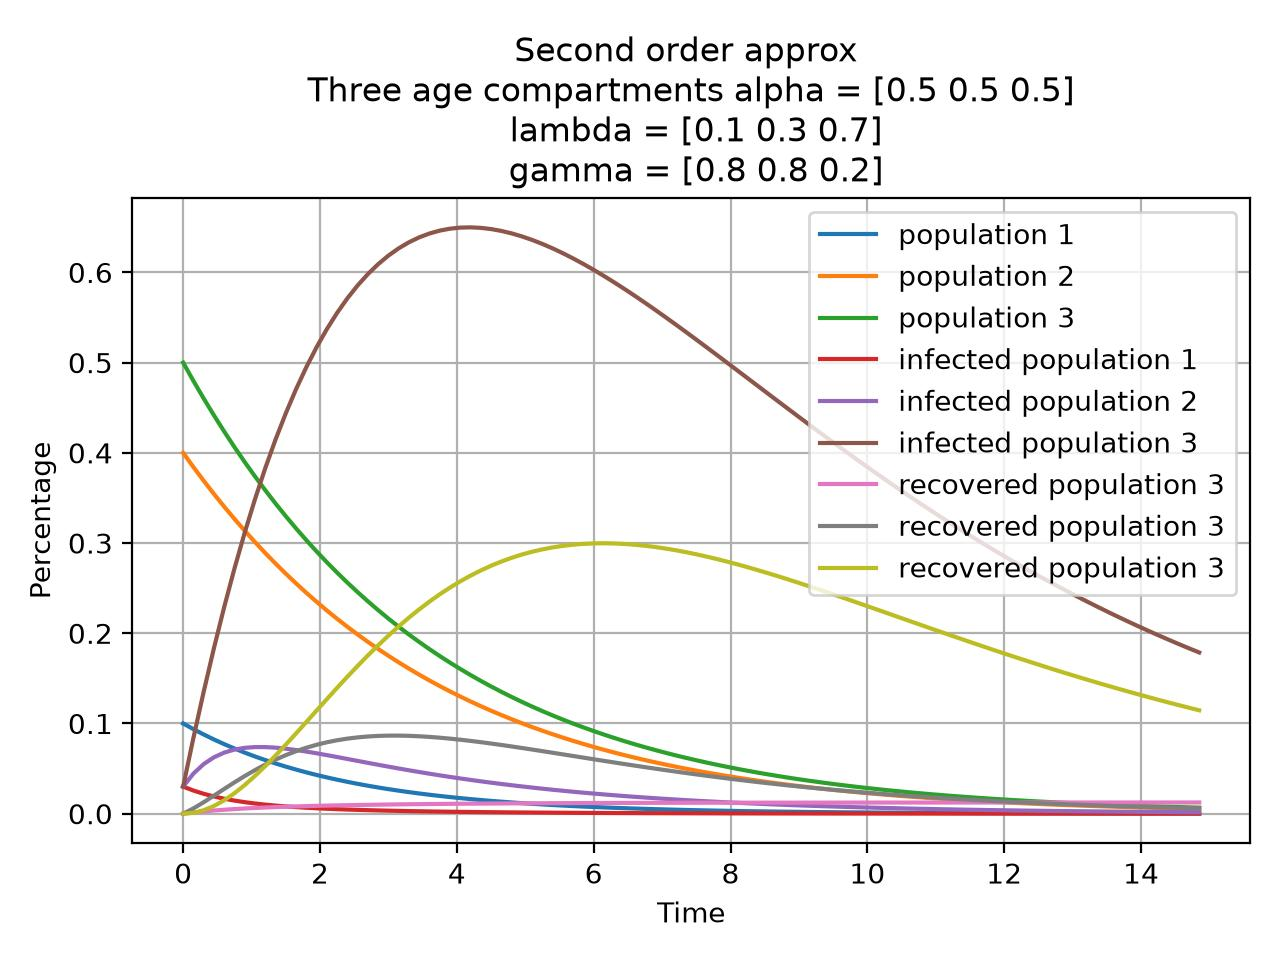
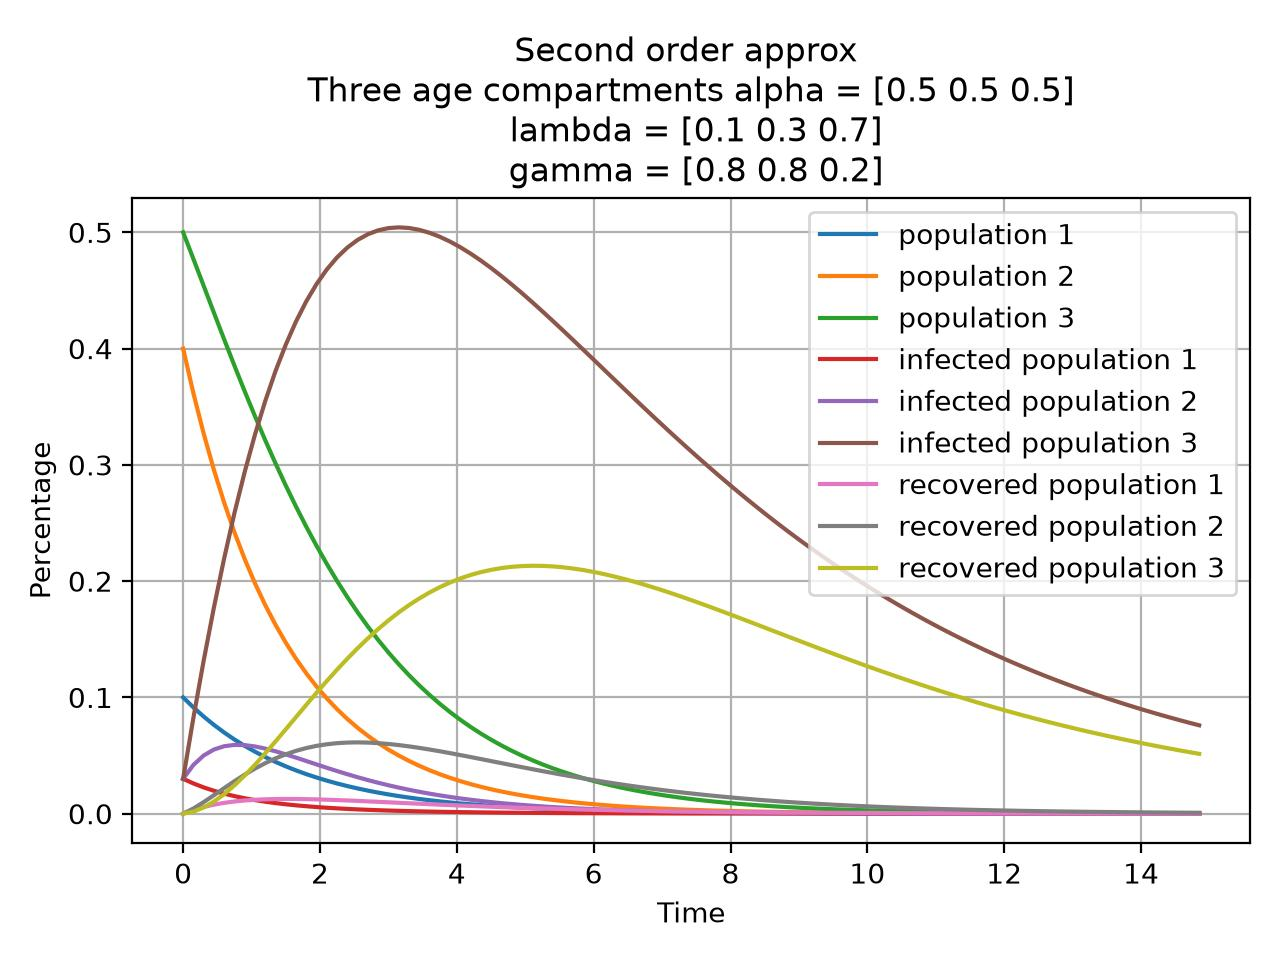
fixed typo, stepped t at end of pass

diff --git a/ode_system.py b/ode_system.py
@@ -560,7 +560,7 @@ def s_alpha(alpha,lamb,gamma,s,i,r):
     s_2 = s[1]
     s_3 = s[2]
     s_1_p = -(alpha[0]+lamb[0])*s_1
-    s_2_p =  alpha[0]*s_1-alpha[1]*s_2 #-lamb[1]*s_2
+    s_2_p =  alpha[0]*s_1-alpha[1]*s_2 -lamb[1]*s_2
     s_3_p = alpha[1]*s_2 - lamb[2]*s_3 
 #    s_p = np.array([s_1_p,s_2_p,s_3_p])
     i_1 = i[0]
@@ -572,8 +572,8 @@ def s_alpha(alpha,lamb,gamma,s,i,r):
     r_1 = r[0]
     r_2 = r[1]
     r_3 = r[2]
-    r_1_p = gamma[0]*i_1 - alpha[0]*i_1
-    r_2_p = gamma[1]*i_2 + alpha[0]*i_1 - alpha[1]*r_2
+    r_1_p = gamma[0]*i_1 - alpha[0]*r_1
+    r_2_p = gamma[1]*i_2 + alpha[0]*r_1 - alpha[1]*r_2
     r_3_p = gamma[2]*i_3 + alpha[1]*r_2 - alpha[2]*r_3
     state = np.array([s_1_p,s_2_p,s_3_p,i_1_p,i_2_p,i_3_p,r_1_p,r_2_p,r_3_p])
     return state
@@ -606,16 +606,22 @@ def taylor_system_10(f,initial,alpha,lamb,gamma,t0,t1,n):
         s_1_pp = -alpha[0]*s_1_p - lamb[0]*s_1_p
         s_2_pp = alpha[0]*s_1_p - lamb[1]*s_2_p - alpha[1]*s_2_p
         s_3_pp = alpha[1]*s_2_p - lamb[2]*s_3_p
+        i_1_pp = lamb[0]*s_1_p - gamma[0]*i_1_p -alpha[0]*i_1_p
+        i_2_pp = lamb[1]*s_2_p - gamma[1]*i_2_p + alpha[0]*i_1_p - alpha[1]*i_2_p
+        i_3_pp = lamb[2]*s_3_p - gamma[2]*i_3_p + alpha[1]*i_2_p
+        r_1_pp = gamma[0]*i_1_p - alpha[0]*r_1_p
+        r_2_pp = gamma[1]*i_2_p + alpha[0]*r_1_p - alpha[1]*r_2_p
+        r_3_pp = gamma[2]*i_3_p + alpha[1]*r_2_p - alpha[2]*r_3_p
+        s[0] += h*(s_1_p + 0.5*h*s_1_pp)
+        s[1] += h*(s_2_p + 0.5*h*s_2_pp)
+        s[2] += h*(s_3_p + 0.5*h*s_3_pp)
+        i[0] += h*(i_1_p+ 0.5*h*i_1_pp)
+        i[1] += h*(i_2_p+ 0.5*h*i_2_pp)
+        i[2] += h*(i_3_p+ 0.5*h*i_3_pp)
+        r[0] += h*(r_1_p + 0.5*h*r_1_pp)
+        r[1] += h*(r_2_p + 0.5*h*r_2_pp)
+        r[2] += h*(r_3_p + 0.5*h*r_3_pp)
         t += h
-        s[0] += h*(s_1_p + 0.5*s_1_pp)
-        s[1] += h*(s_2_p + 0.5*s_2_pp)
-        s[2] += h*(s_3_p + 0.5*s_3_pp)
-        i[0] += h*(i_1_p)
-        i[1] += h*(i_2_p)
-        i[2] += h*(i_3_p)
-        r[0] += h*r_1_p
-        r[1] += h*r_2_p
-        r[2] += h*r_3_p
     return points
 
 
@@ -644,8 +650,8 @@ plt.plot(t,s_3, label='population 3')
 plt.plot(t,i_1, label='infected population 1')
 plt.plot(t,i_2, label='infected population 2')
 plt.plot(t,i_3, label='infected population 3')
-plt.plot(t,r_1, label='recovered population 3')
-plt.plot(t,r_2, label='recovered population 3')
+plt.plot(t,r_1, label='recovered population 1')
+plt.plot(t,r_2, label='recovered population 2')
 plt.plot(t,r_3, label='recovered population 3')
 plt.xlabel('Time')
 plt.ylabel('Percentage')
